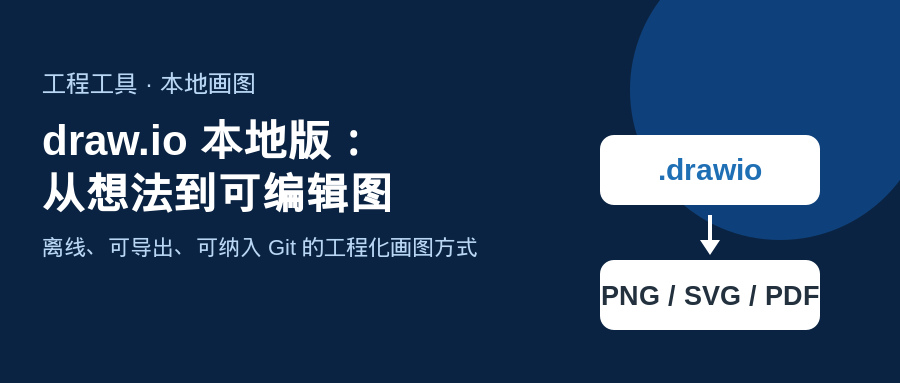
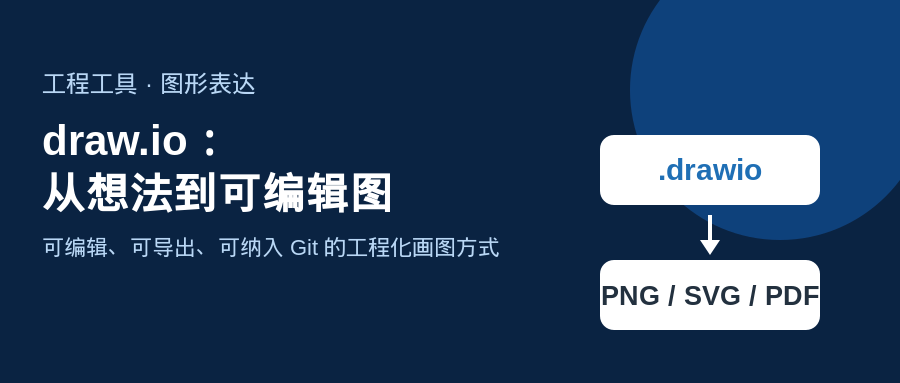
Generalize drawio article and add source link

Changed region(s): [[0.0311, 0.6031, 0.56, 0.6893], [0.2178, 0.3159, 0.4044, 0.4308], [0.1556, 0.1723, 0.28, 0.2585]]

diff --git a/7_16/drawio_local/drawio_local_article.md b/7_16/drawio_local/drawio_local_article.md
@@ -1,4 +1,4 @@
-## [日常问题] draw.io 本地版：从想法到可编辑图的工程化方法
+## [日常问题] draw.io：从想法到可编辑图的工程化方法
 
 ![封面](cover_drawio_local.png)
 
@@ -8,17 +8,17 @@
 
 很多工程图的问题不在于不会画，而在于图散落在聊天记录、截图和临时白板里。过几周再看，没人知道它的源文件在哪里，也没人敢改。
 
-本地 draw.io 的价值，是把“图”当作和代码一样可保存、可修改、可评审的工程资产。
+draw.io 的价值，是把“图”当作和代码一样可保存、可修改、可评审的工程资产。
 
 ---
 
-### 一、本地版和在线版有什么区别
+### 一、draw.io 是什么
 
-draw.io Desktop 是 standalone app。图可以直接保存在本地 `.drawio` 文件中，离线也能继续编辑，不必依赖浏览器 tab 或网络连接。
+draw.io 是 diagram 工具，用于创建架构图、流程图、时序图、状态机和数据流图。它可以把图保存为可编辑的 `.drawio` 源文件。
 
-对工程团队来说，本地模式的关键不是“离线”，而是文件可控。`.drawio` 源文件可以和 Markdown、testplan、verification checklist 放在同一个 Git repository 中。PNG、SVG 或 PDF 是发布产物，`.drawio` 则是后续修改的源代码。
+对工程团队来说，重点是文件可控。`.drawio` 源文件可以和 Markdown、testplan、verification checklist 放在同一个 Git repository 中。PNG、SVG 或 PDF 是发布产物，`.drawio` 则是后续修改的源文件。
 
-![本地 draw.io 的工程化工作流](drawio-local-workflow.png)
+![draw.io 的工程化工作流](drawio-local-workflow.png)
 
 ---
 
@@ -37,7 +37,7 @@ draw.io 最适合表达“元素之间的关系”，例如组件连接、状态
 
 ---
 
-### 三、本地版有什么优点
+### 三、draw.io 有什么优点
 
 第一，**源图可编辑**。不要只保存截图。需求变了、信号变了、模块边界变了，都可以打开 `.drawio` 修改，而不是重新画一张。
 
@@ -45,11 +45,11 @@ draw.io 最适合表达“元素之间的关系”，例如组件连接、状态
 
 第三，**适合 Git 管理**。推荐把 `.drawio` 与导出的 PNG 一起提交。review 时读者直接看 PNG，维护者需要修改时打开 `.drawio`。
 
-第四，**对本地工程环境友好**。即使没有外网，也可以创建、修改和导出图。对受限环境、内网环境或离线 debug 很实用。
+第四，**适合工程环境**。图可以作为 repository asset 管理，也可以在需要时导出成适合文档、评审或公众号的图片。
 
 ---
 
-### 四、怎么安装
+### 四、怎么开始使用
 
 如果本机已经能打开 draw.io Desktop，就不需要重复安装。
 
@@ -71,7 +71,7 @@ Windows 通常使用安装程序版本。macOS 使用 Desktop app。Linux 可按
 
 **场景三：把自然语言变成图。**
 
-先写清楚四件事：有哪些 node、谁连接谁、箭头代表什么、异常路径怎么走。然后生成初稿，再在本地 draw.io 调整颜色、间距、文字和 routing。
+先写清楚四件事：有哪些 node、谁连接谁、箭头代表什么、异常路径怎么走。然后生成初稿，再在 draw.io 中调整颜色、间距、文字和 routing。
 
 **场景四：导出给公众号。**
 
@@ -91,10 +91,14 @@ Windows 通常使用安装程序版本。macOS 使用 Desktop app。Linux 可按
 
 ### 七、总结
 
-draw.io 本地版不是单纯的画图工具，而是一种把工程知识变成可维护资产的方法。
+draw.io 不是单纯的画图工具，而是一种把工程知识变成可维护资产的方法。
 
 > **`.drawio` 是源文件，PNG／SVG／PDF 是发布文件；先保证可编辑，再保证好看。**
 
 ---
 
-*本文以本地 draw.io Desktop 的通用工作流与 DV 工程实践整理。*
+*本文以 draw.io 的通用工作流与 DV 工程实践整理。*
+
+复杂图的可编辑源文件可从以下 GitHub 目录获取：
+
+https://github.com/daxuxuxu/wechat_airtual/tree/main/7_16/drawio_local